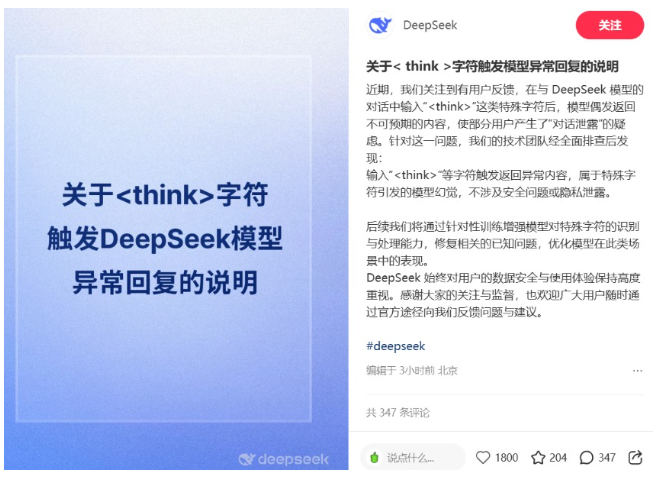
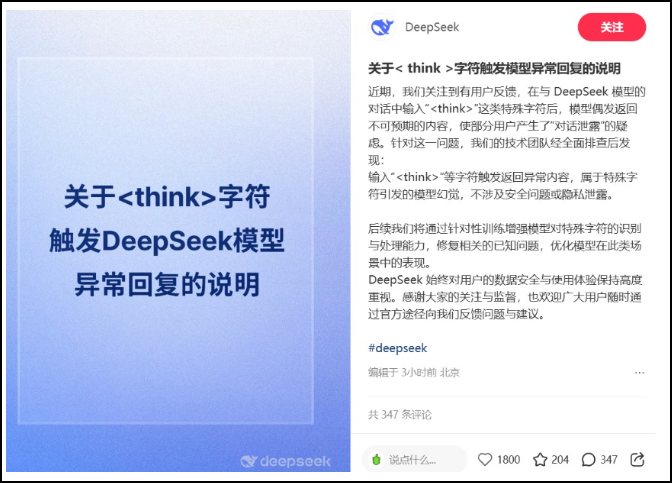
Added the title image.

diff --git a/Articles/6_The_Think_Bug_in_DeepSeek/6_The_Think_Bug_in_DeepSeek.md b/Articles/6_The_Think_Bug_in_DeepSeek/6_The_Think_Bug_in_DeepSeek.md
@@ -1,6 +1,8 @@
-# **The Special Token** `<think>` Problem/Bug of Latest DeepSeek LLM 
+# The Special Token `<think>` Problem/Bug of Latest DeepSeek LLM 
 
-Recently user observed an issue/bug in the latest version of the DeepSeek LLM: during testing, it was found that when specific incomplete or special tokens such as `<think>` or `<think` are included in the user prompt, the model may produce highly unstable responses, severe hallucinations, abnormal reasoning outputs, or unexpected behavior.
+Recently the users observed an issue/bug in the latest version of the DeepSeek LLM: during testing, it was found that when specific incomplete or special tokens such as `<think>` or `<think` are included in the user prompt, the model may produce highly unstable responses, severe hallucinations, abnormal reasoning outputs, or unexpected behavior.
+
+![](img/title.png)
 
 The purpose of this article is to document the issue, demonstrate how the behavior can be reproduced, and discuss the verification experiments conducted to better understand the possible cause of the problem. This article is organized into three main sections:
 
@@ -232,4 +234,4 @@ From an LLM security perspective, this case can also be viewed as a form of **sp
 
 ------
 
-> 
+> last edit by LiuYuancheng ([email redacted]) by 20/05/2026 if you have any question , please send me a message. 